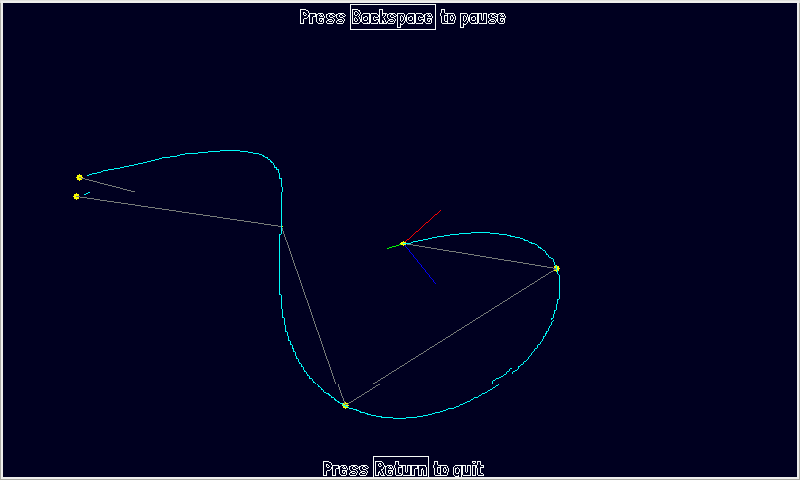
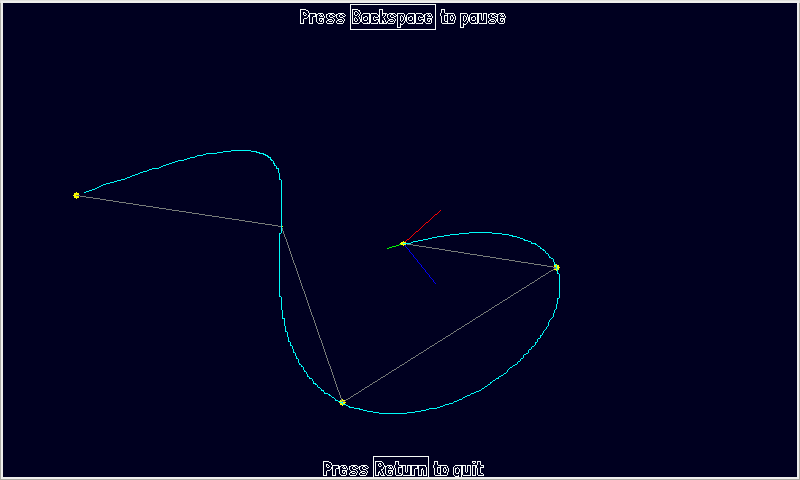
Better pause

diff --git a/curves.c b/curves.c
@@ -136,10 +136,16 @@ void draw(void)
 	spFlip();
 }
 
+int pause = 0;
 int calc(Uint32 steps)
 {
 	PspInput engineInput = spGetInput();
-	if (!engineInput->button[SP_BUTTON_SELECT])
+	if (engineInput->button[SP_BUTTON_SELECT])
+	{
+		pause = 1-pause;
+		engineInput->button[SP_BUTTON_SELECT] = 0;
+	}
+	if (!pause)
 		rotation += steps*32;
 	if (engineInput->button[SP_BUTTON_START])
 		return 1;
